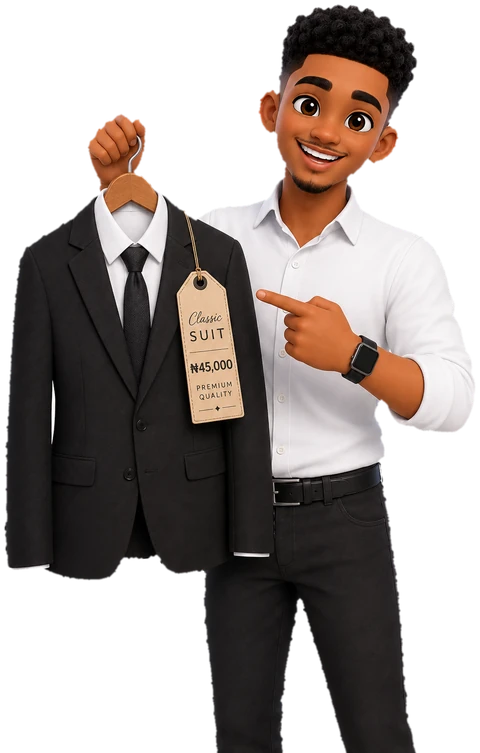
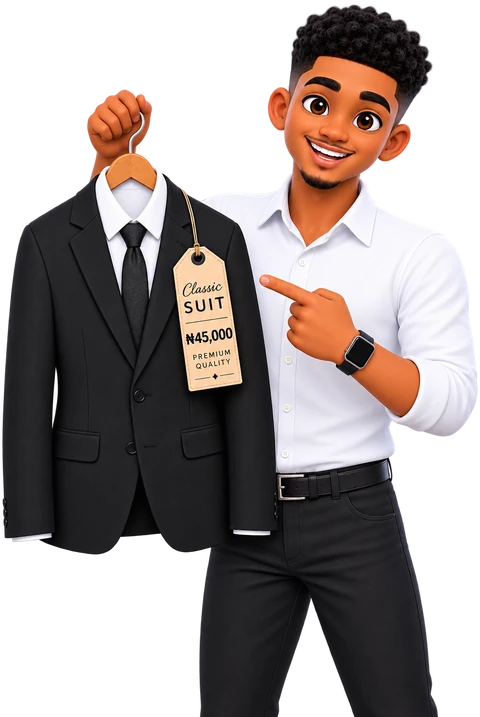
How It Works: break characters out of the card, swap two illustrations
The card containment was the actual complaint — characters were getting
clipped flush at the card's rounded edge, feet cut off right at the
boundary, looking boxed in rather than standing in front of the panel.

Card is no longer overflow-hidden. The character is now a separately
positioned element anchored to the card's bottom-right corner with a
negative-space allowance below it, so he visually breaks past the
card's edge onto the page background instead of being trapped inside
it. Added a soft drop-shadow to sell the depth.

Also capped each character to both a max-height AND max-width (previously
only height-constrained) — the truck image is landscape, so
height-only sizing let it stretch wide enough to run straight into the
step's heading text. Caught this by actually rendering all 6 steps,
not just the ones that were portrait-oriented.

Swapped in two new source images:
- 'Customize your look' -> new desk scene (Plan/Build/Scale checklist,
  phone, Ideas notepad) replacing the plainer desk shot
- 'Add your products' -> new suit shot, cleaner alpha channel than the
  original upload (no checkerboard-in-pixels problem this time, so no
  background-removal processing needed)

Verified end to end with real renders: dev server + Playwright,
clicked through all 6 steps at desktop width, confirmed no image/text
collisions, and checked mobile stacking separately.

diff --git a/src/components/HowItWorks.tsx b/src/components/HowItWorks.tsx
@@ -137,34 +137,36 @@ export default function HowItWorks() {
           </div>
 
           {/* Slide */}
-          <div className="rounded-2xl overflow-hidden min-h-[420px] md:min-h-[440px]" style={{ backgroundColor: landing.ink }}>
-            <div className="grid md:grid-cols-[1.15fr_0.85fr] gap-6 md:gap-4 items-stretch h-full">
-              <div className="p-8 md:p-12 md:pr-0 flex flex-col">
-                <div className="flex items-start justify-between mb-8">
-                  <div className="flex items-center justify-center w-12 h-12 rounded-xl" style={{ backgroundColor: 'rgba(245,130,10,0.16)', color: landing.orange }}>
-                    <NavIcon name={step.icon} />
-                  </div>
-                  <span className="text-xs" style={{ color: onDark.faint }}>
-                    {String(active + 1).padStart(2, '0')} / {String(STEPS.length).padStart(2, '0')}
-                  </span>
+          <div className="relative pb-10 sm:pb-14 md:pb-16">
+            <div className="rounded-2xl min-h-[440px] sm:min-h-[480px] md:min-h-[440px] p-8 md:p-12" style={{ backgroundColor: landing.ink }}>
+              <div className="flex items-start justify-between mb-8 max-w-[220px] sm:max-w-none">
+                <div className="flex items-center justify-center w-12 h-12 rounded-xl" style={{ backgroundColor: 'rgba(245,130,10,0.16)', color: landing.orange }}>
+                  <NavIcon name={step.icon} />
                 </div>
-
-                <h3 className="text-2xl md:text-3xl font-semibold mb-3" style={{ ...displayFont, color: onDark.text }}>
-                  {step.title}
-                </h3>
-                <p className="text-sm md:text-base leading-relaxed max-w-lg" style={{ color: onDark.sub }}>
-                  {step.desc}
-                </p>
+                <span className="text-xs" style={{ color: onDark.faint }}>
+                  {String(active + 1).padStart(2, '0')} / {String(STEPS.length).padStart(2, '0')}
+                </span>
               </div>
 
-              <div className="relative h-[220px] md:h-auto flex items-end justify-center md:justify-end px-6 md:px-0" aria-hidden="true">
-                <img
-                  key={step.image}
-                  src={step.image}
-                  alt=""
-                  className="h-full max-h-[220px] md:max-h-[380px] w-auto object-contain object-bottom"
-                />
-              </div>
+              <h3 className="text-2xl md:text-3xl font-semibold mb-3 max-w-[230px] sm:max-w-md md:max-w-lg" style={{ ...displayFont, color: onDark.text }}>
+                {step.title}
+              </h3>
+              <p className="text-sm md:text-base leading-relaxed max-w-[230px] sm:max-w-sm md:max-w-md" style={{ color: onDark.sub }}>
+                {step.desc}
+              </p>
+            </div>
+
+            {/* Character breaks past the card's bottom edge instead of being boxed inside it */}
+            <div
+              className="absolute z-10 pointer-events-none right-2 sm:right-6 md:right-10 bottom-0 h-[240px] w-[190px] sm:h-[300px] sm:w-[260px] md:h-[400px] md:w-[340px]"
+              aria-hidden="true"
+            >
+              <img
+                key={step.image}
+                src={step.image}
+                alt=""
+                className="h-full w-full object-contain object-bottom drop-shadow-[0_18px_24px_rgba(0,0,0,0.35)]"
+              />
             </div>
           </div>
         </div>
